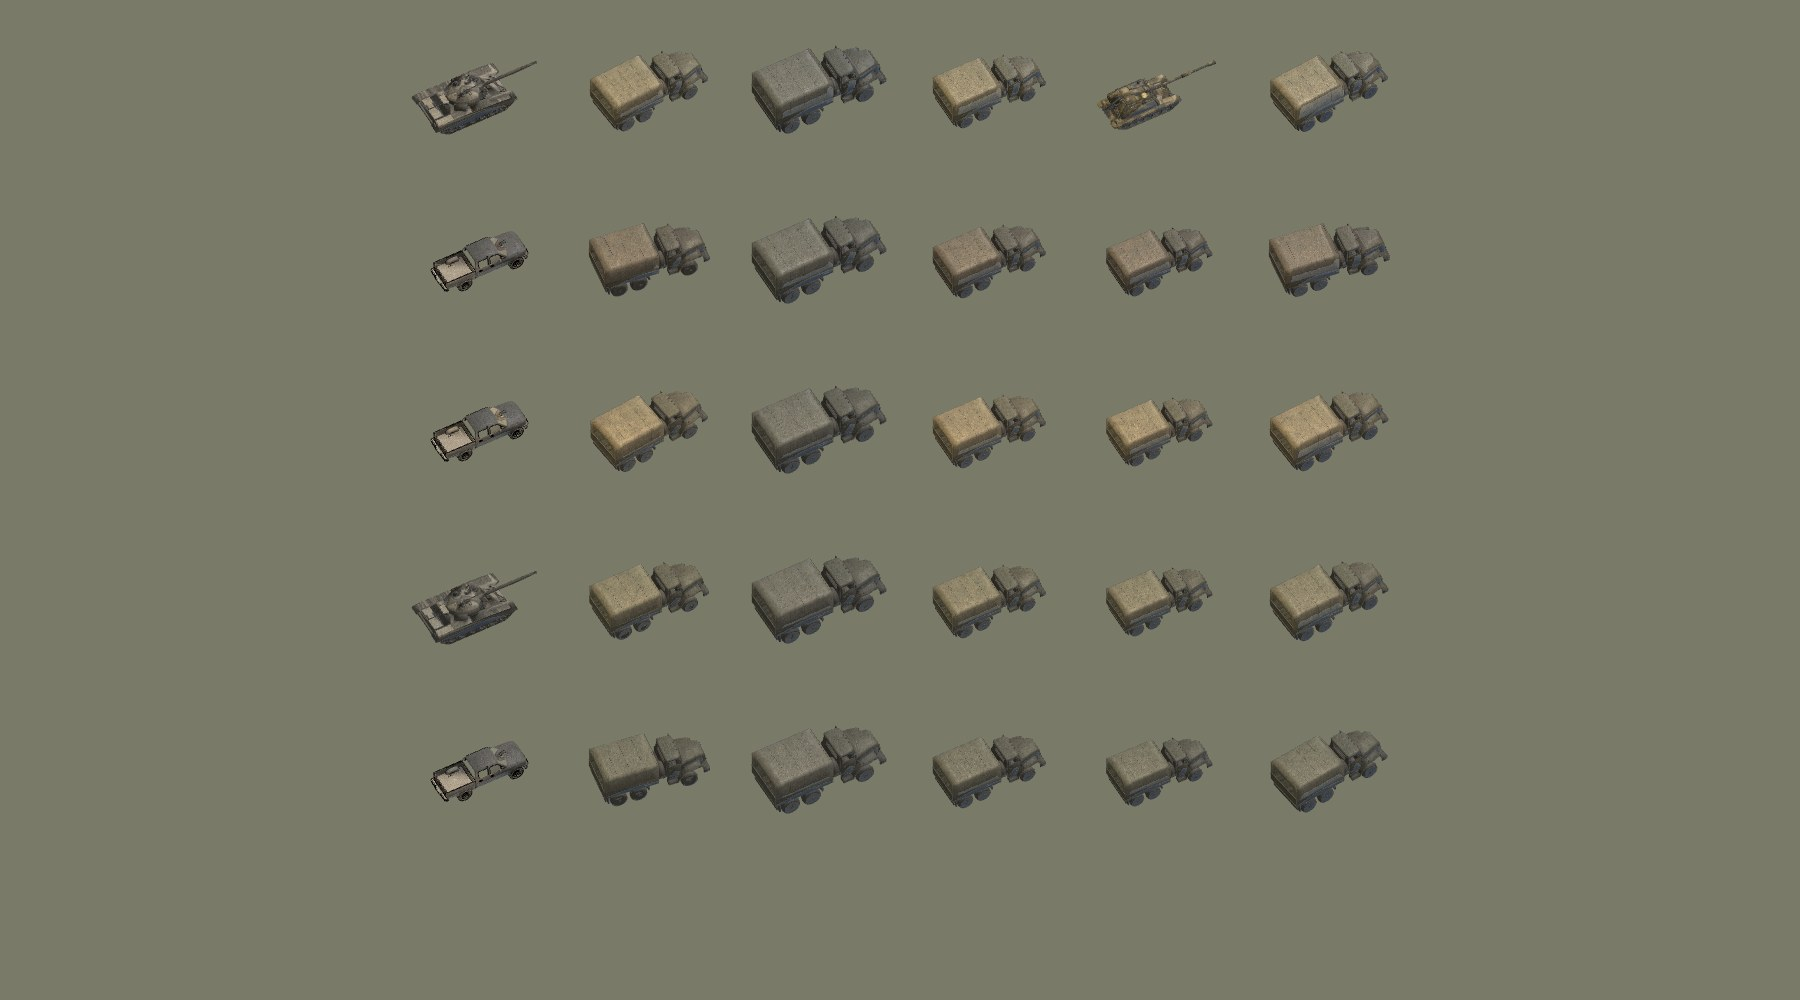
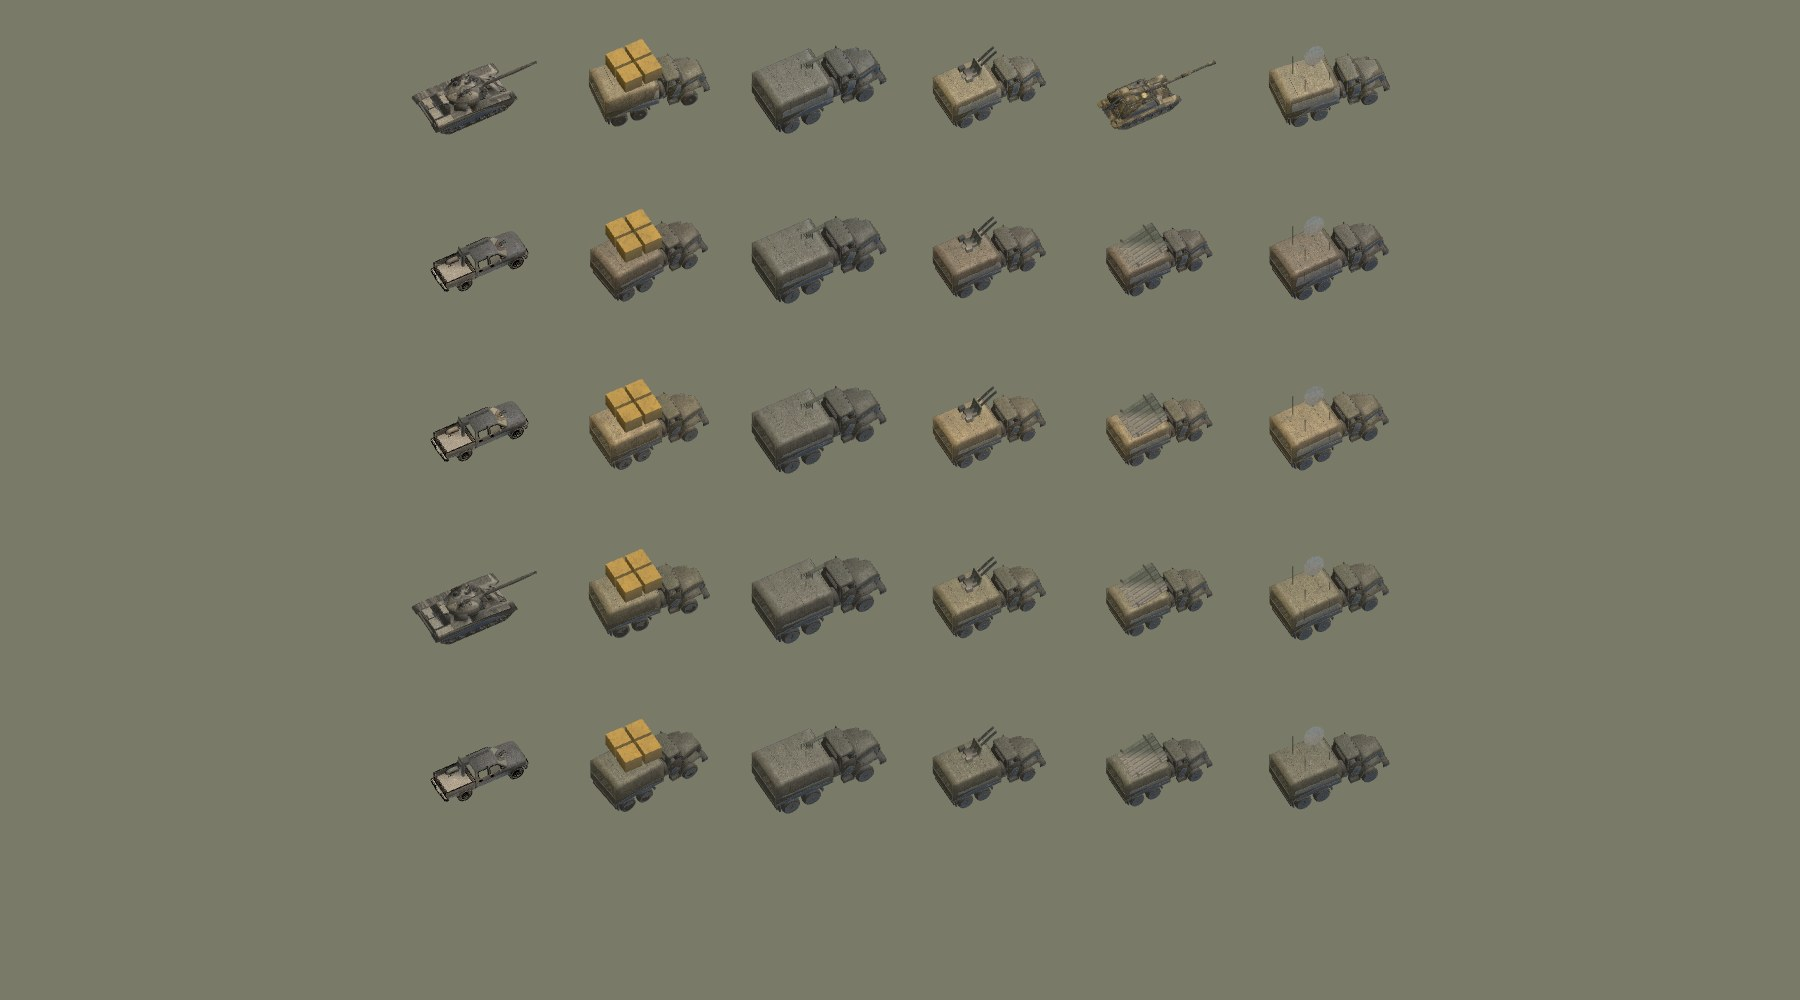
DECISIONS + ART-BAR: unit close-up bar (Abdullah 2026-11-19)
Claude-Session: https://claude.ai/code/session_01GRiS9orDqjAf9wnFWguk4k

diff --git a/orch/ART-BAR.md b/orch/ART-BAR.md
@@ -61,3 +61,12 @@ B7. **Smooth** — smooth-pc / smooth-mp green; draw calls never go up for a loo
 Protocol: `LOOK_OFF=1 node orch/lookshots.mjs` then `node orch/lookshots.mjs` (same battle, same camera: IR, US, IL, SA, RS, DW, RV on
 the strait map) -> `orch/shots/look/before-*.jpg` / `after-*.jpg` + numbers; score B1-B7 honestly 1-5 in `orch/reports/look.md`
 (append, dated). Never ship a lower score or more draw calls than before.
+
+## UNIT CLOSE-UP BAR (Abdullah 2026-11-19 06:06 "The close up on the soldiers looks really bad. Ensure all units look good and professional.")
+Every unit (vehicles, aircraft, ships, infantry, buildings) must look good and professional **up close** — Company of Heroes / Broken Arrow level inside the smoothness budgets (`orch/SMOOTH.md`; never raise a budget):
+- No flat untextured boxes; real shapes with believable detail (hatches, tracks/wheels, barrels, antennas, stowage).
+- No tint-only repaint passing as a different unit: each kind has its own silhouette; nations differ by paint/markings/kit, not just colour.
+- Clean proportions and one consistent scale (a tank is bigger than an APC, bigger than a truck, a soldier is human-sized next to them).
+- Real-looking materials: metal (metalness/roughness), canvas, rubber, glass; weathering/dirt/decals; normal detail where cheap.
+- Score every kind 1-5 in `orch/reports/artaudit.md` using `orch/artaudit.mjs` close-up sheets (`orch/shots/art-audit-*.jpg`); anything under 3 is fixed first, Shia factions first.
+- Cost rules: merged per material, shared textures/atlases, pre-warmed shaders (no late programs: superfreeze/loadfreeze stay green).

diff --git a/orch/DECISIONS.md b/orch/DECISIONS.md
@@ -296,3 +296,4 @@ Every token an agent reads counts against Abdullah's plan. Work like this:
 - **Next feature choices** (Abdullah 2026-11-17 18:45 Chicago, options card): DESTRUCTIBLE CITIES = destroyed buildings leave rubble that blocks or slows units until a Construction Vehicle clears it, and the rubble gives cover (not lasting map-reshaping craters, not looks-only). DAY/NIGHT & WEATHER = a LIVE day cycle: time passes during the battle (dawn to night) and weather can roll in, with gameplay effects (night cuts sight range, storms ground aircraft) - must stay deterministic online. PROXY MILITIAS + SMUGGLING = generals' powers unlocked with general points (call in a militia squad; open a smuggling route that beats sanctions), for every nation. KILL-CAM REPLAYS = DROPPED (do not build).
 - 2026-11-18 voices3 approved (Abdullah 18:18 "Put in the game"): FR/DE/GB/JP unit voices re-recorded (rougher, more natural) and a Hebrew announcer go live.
 - 2026-11-19 Abdullah (05:58 "Yes on both"): unit limit 500 per player in Battles with up to 4 players, 300 for 5-8 players (8p at 500 not smooth yet).
+- 2026-11-19 06:06 Chicago (pack-art): Abdullah, after a close-up of an Iranian rifleman: "The close up on the soldiers looks really bad. Ensure all units look good and professional." Bar: every unit looks good and professional up close (Company of Heroes / Broken Arrow level within the smoothness budgets).
